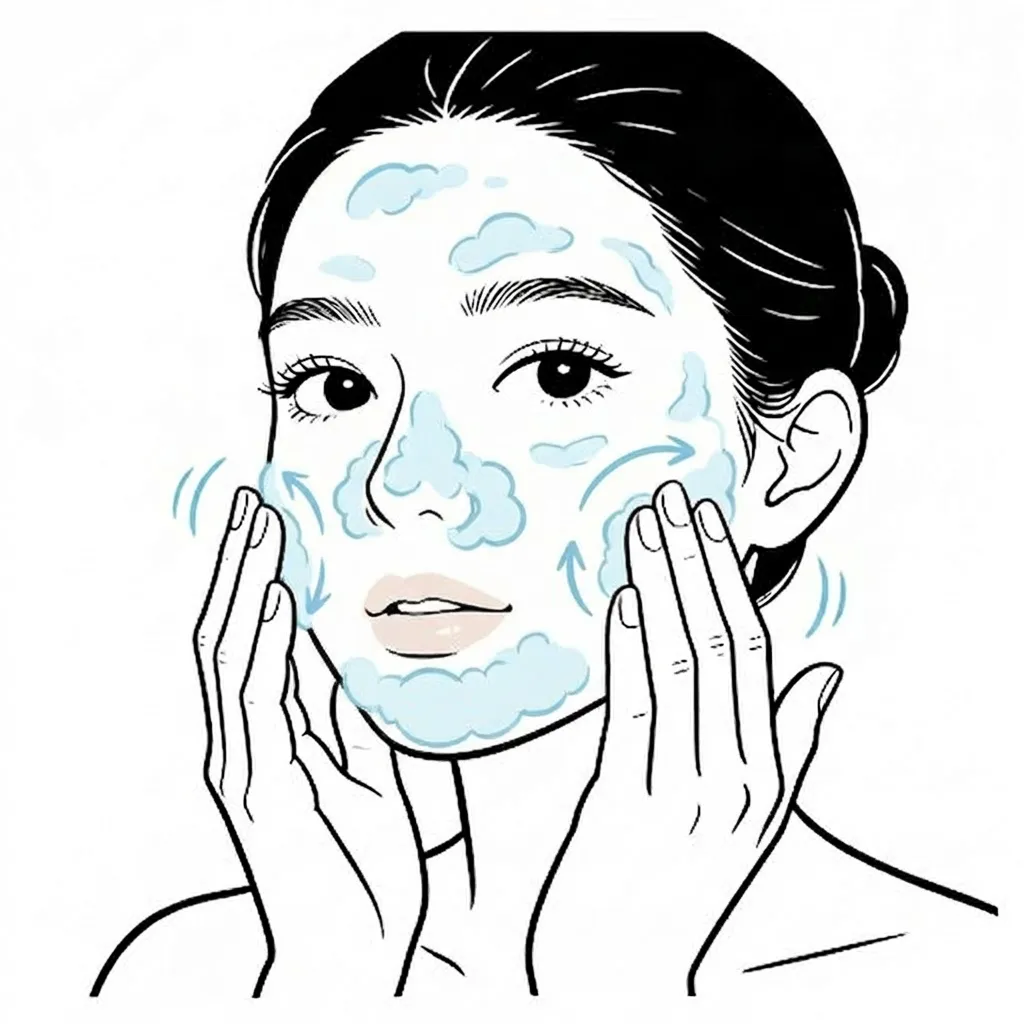
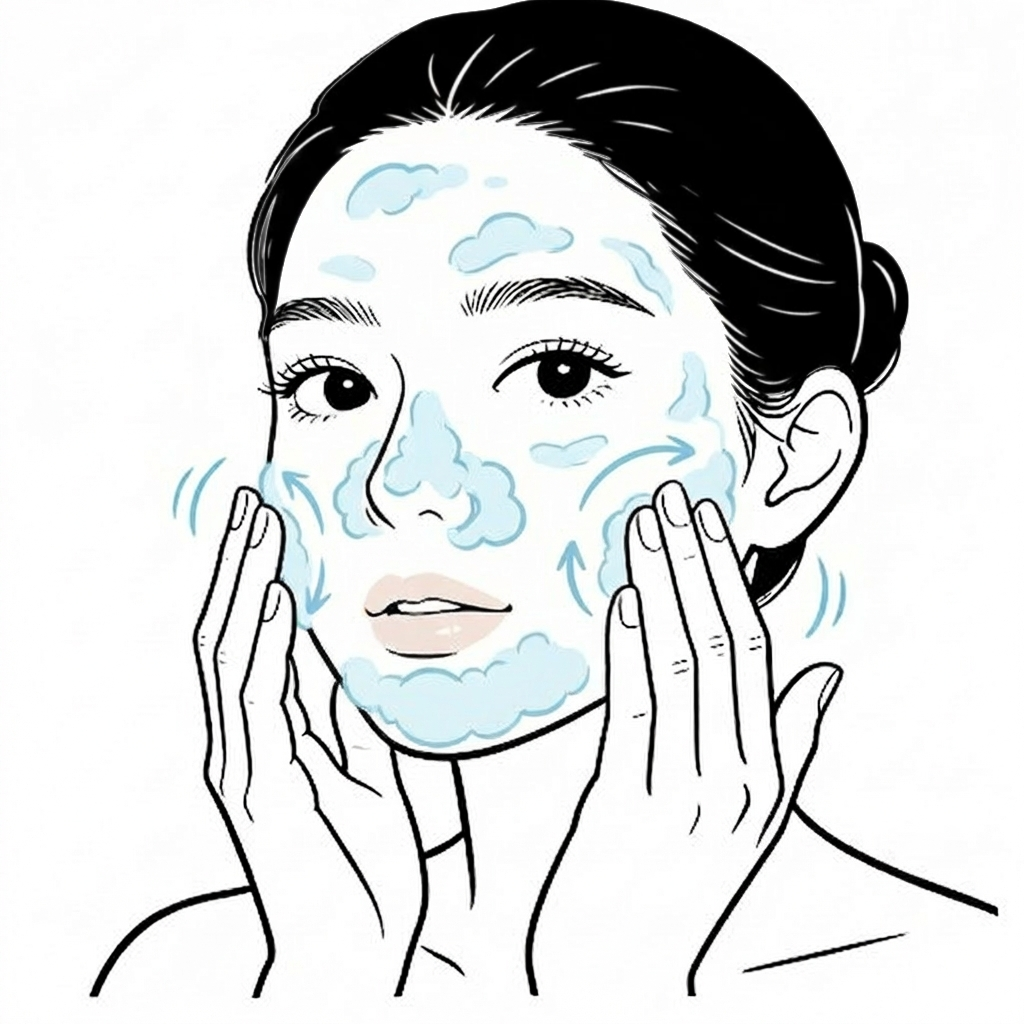
1

diff --git a/src/app/(website)/guide/RitualContent.tsx b/src/app/(website)/guide/RitualContent.tsx
@@ -642,7 +642,7 @@ const defaultModuleData: ModuleData = {
           title: "混油养肤",
           description: "取适量护理油及面霜，于掌心混合温热，以由下而上，由内而外的手法进行脸部及眼周按摩；确保珍贵成分能有效渗入肌肤。",
           duration: "3-5分钟",
-          imageUrl: "/images/ritual-step-oil-nourish.jpg"
+          imageUrl: "/images/ritual-step-oil-nourish.webp"
         },
         {
           title: "膜法封存",
@@ -728,7 +728,7 @@ const defaultModuleData: ModuleData = {
           title: "混油养肤",
           description: "取适量护理油及面霜，于掌心混合温热，以由下而上，由内而外的手法进行脸部及眼周按摩；确保珍贵成分能有效渗入肌肤。",
           duration: "3-5分钟",
-          imageUrl: "/images/ritual-step-oil-nourish.jpg"
+          imageUrl: "/images/ritual-step-oil-nourish.webp"
         },
         {
           title: "膜法封存",
